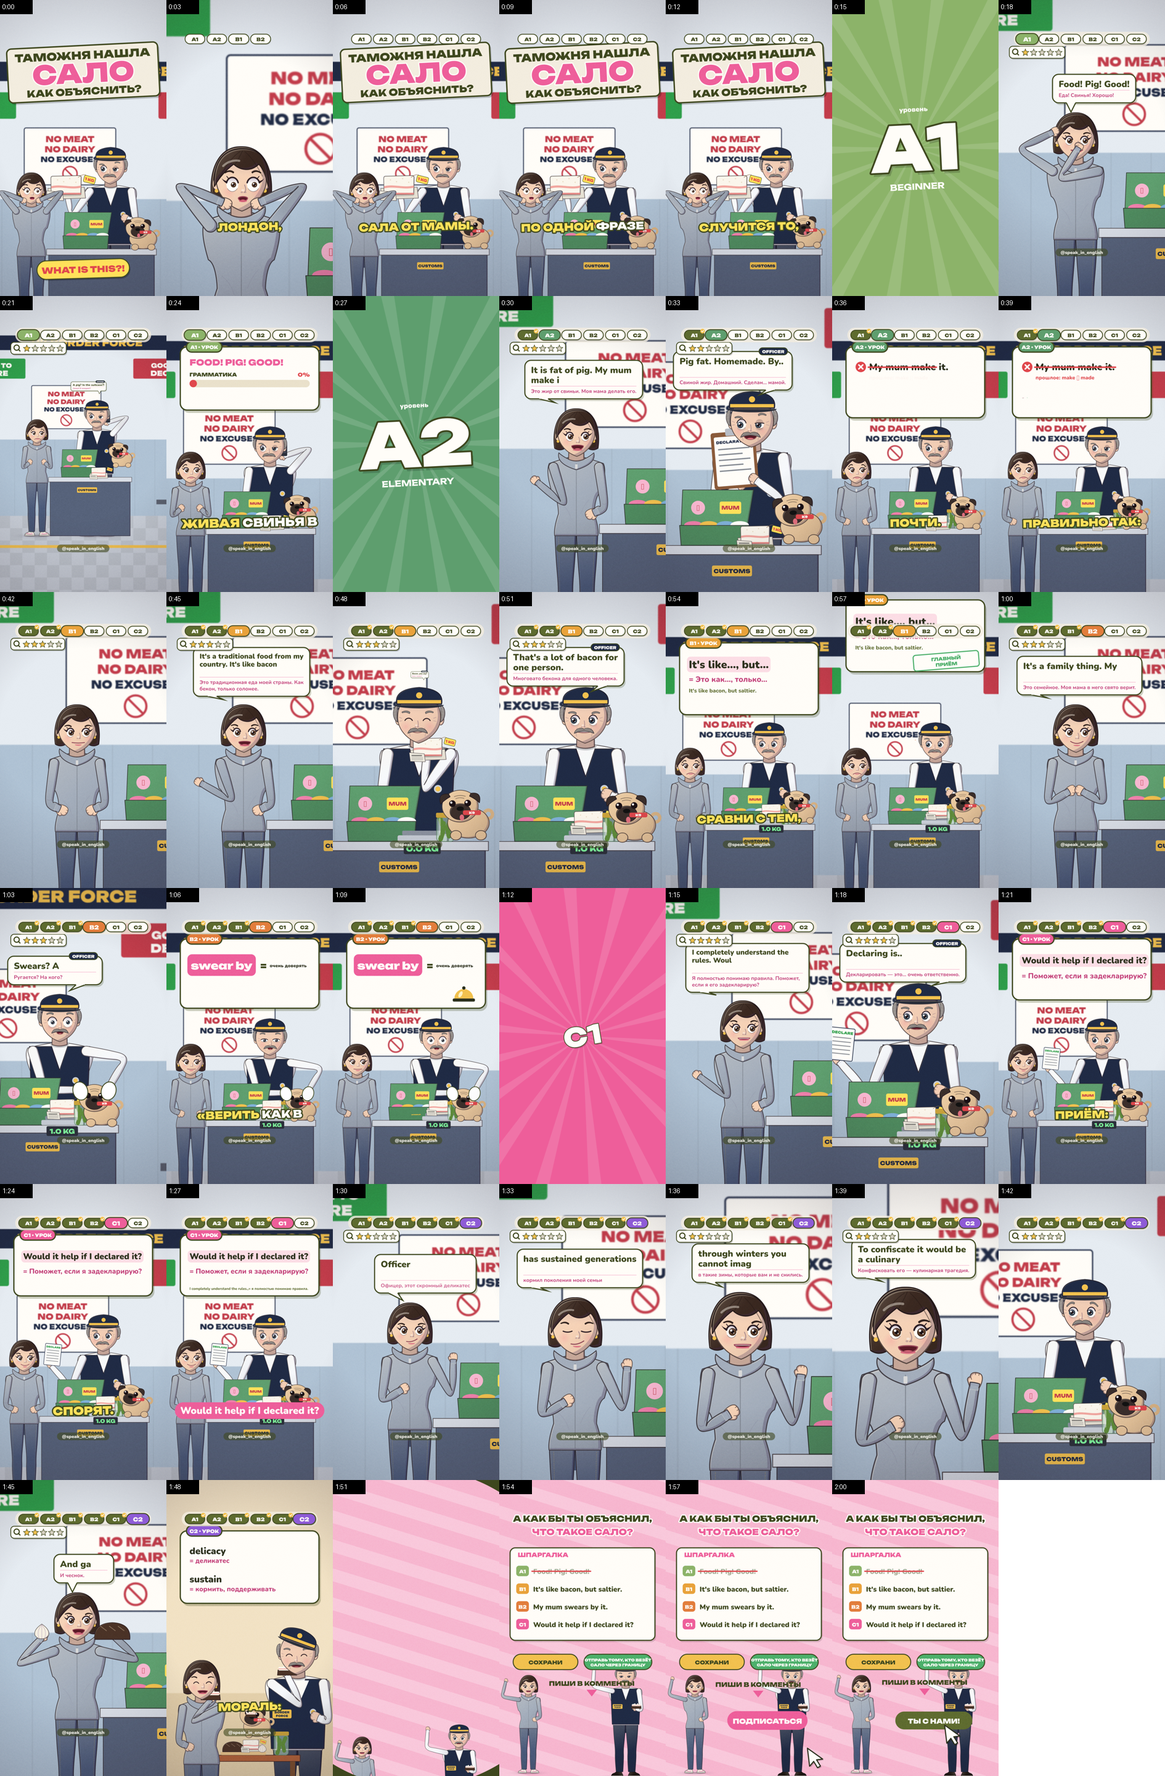
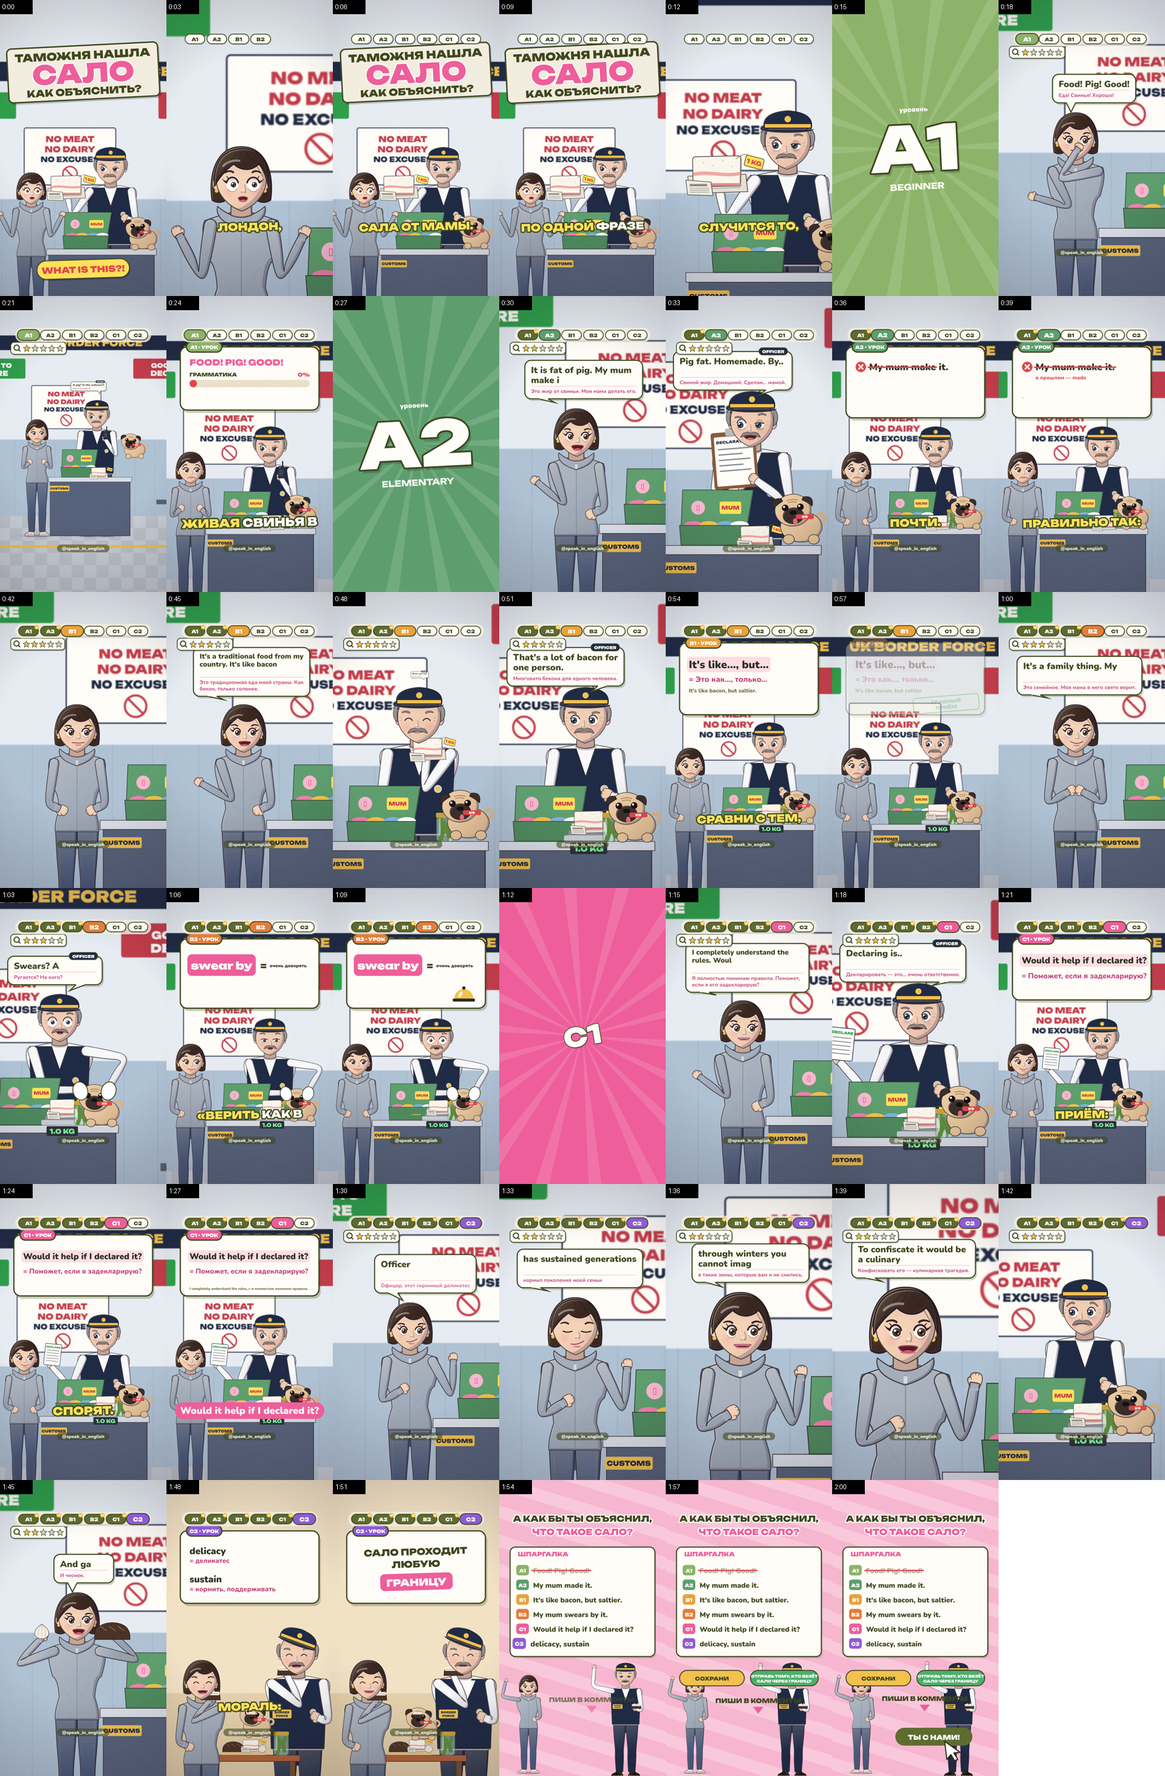
salo: owner fixes (hook cuts, 6-row cheat sheet, longer C2 card, card fade-out, scale, poses)
Claude-Session: https://claude.ai/code/session_01RM84ZifU5rD29j293utRvy

diff --git a/speak_in_english/engine/salo.js b/speak_in_english/engine/salo.js
@@ -122,12 +122,12 @@ function table(c, t, L) {
   // table top + front
   paint(c, q => { q.m(TX0, CT); q.l(TX1, CT); q.l(TX1, CT + 60); q.l(TX0, CT + 60); q.z(); }, '#D9DEE6', { sd: 6, hd: 3, lw: 4 });
   paint(c, q => { q.m(TX0 + 20, CT + 60); q.l(TX1 - 20, CT + 60); q.l(TX1 - 20, 0); q.l(TX0 + 20, 0); q.z(); }, '#56627A', { sd: 10, hd: 4, lw: 4 });
-  c.fillStyle = '#F2C14E'; rr(c, 170, CT + 130, 260, 70, 10); c.fill(); fitTxt(c, 'CUSTOMS', 300, CT + 166, 36, '#1F2A44', 240);
+  c.fillStyle = '#F2C14E'; rr(c, -190, CT + 110, 260, 70, 10); c.fill(); fitTxt(c, 'CUSTOMS', -60, CT + 146, 36, '#1F2A44', 240);
   // suitcase base with clothes (black bread + garlic hidden inside until C2)
   paint(c, q => { q.m(-40, CT - 130); q.l(410, CT - 130); q.l(400, CT); q.l(-30, CT); q.z(); }, '#4E8A5E', { sd: 8, hd: 4, lw: 4 });
   for (const [x, col] of [[20, '#EF7FAA'], [120, '#F2C14E'], [230, '#7FB0D8'], [320, '#FFFDF8']]) { c.fillStyle = col; c.beginPath(); c.ellipse(x + 30, CT - 132, 60, 26, 0, Math.PI, TAU); c.fill(); }
   // evidence pile
-  if (!before(L, 'B1')) scaleDraw(c, PILEX, onScale(t, L) ? (L === 'B1' && t < ev('B1', 'scale') + 0.35 ? (Math.min(1, (t - ev('B1', 'scale')) / 0.35) * 1.0).toFixed(1) + ' KG' : '1.0 KG') : '0.0 KG');
+  if (onScale(t, L)) { const k = L === 'B1' ? eBack(clamp((t - ev('B1', 'scale')) / 0.25), 2) : 1; c.save(); c.translate(PILEX, CT); c.scale(k, k); c.translate(-PILEX, -CT); scaleDraw(c, PILEX, '1.0 KG'); c.restore(); }
   else if (L === 'A2' || L === 'A1') {}
   if (saloOnTable(t, L) && !(L === 'C2' && t > ev('C2', 'room'))) { c.save(); c.translate(PILEX, CT - (onScale(t, L) ? 70 : 0) - 34); saloDraw(c, 0.75); c.restore(); }
   if (!before(L, 'A2') && (L !== 'A2' || t > ev('A2', 'jar'))) { const k = L === 'A2' ? eBack(clamp((t - ev('A2', 'jar')) / 0.3), 2) : 1; c.save(); c.translate(JARX, CT); c.scale(k, k); jarDraw(c, 0.95); c.restore(); }
@@ -149,10 +149,10 @@ function drawDog(c, t, L) { const st = dogState(t, L); if (!st) return;
 const gest = (st, g, who, t, side, base) => { const sp = TL.speech.find(s => s.who === who && t >= s.t && t < s.t + s.d); if (sp) { const u = (t - sp.t) * 4.5; st[side < 0 ? 'armL' : 'armR'] = reach(g, side, side * (g.sw * 1.5 + Math.sin(u) * 20), g.ySh + base + Math.cos(u) * 20); } };
 const hang = (g, s) => reach(g, s, s * g.sw * 0.8, g.ySh + 330);
 const chest = (g, s, k = 0.6) => reach(g, s, s * g.sw * k, g.ySh + 230);
-const cheeks = (st, g) => { st.headFirst = true; st.armL = reach(g, -1, -g.hw * 0.75, g.headY + g.hh * 0.7); st.armR = reach(g, 1, g.hw * 0.75, g.headY + g.hh * 0.7); };
+const cheeks = (st, g) => { st.armL = reach(g, -1, -g.sw * 1.7, g.ySh + 90, { planar: true }); st.armR = reach(g, 1, g.sw * 1.7, g.ySh + 90, { planar: true }); };
 function herState(t, L) { const g = G.her, e = k => ev(L, k), st = { t, talk: talk('her', t), mood: 'neutral', turn: 0.3, look: 0.7, armL: hang(g, -1), armR: hang(g, 1), items: {} };
   if (L === 'hook') { st.mood = 'shock'; st.blink = 0; cheeks(st, g); }
-  if (L === 'A1') { st.mood = 'happy'; if (speaking('a1_h', t, 0.05, 0.3)) { const w = Math.sin(t * 12) * 10; st.headFirst = true; st.armR = reach(g, 1, g.hw * 0.15, g.headY + g.hh * 0.42, { fist: true }); st.armL = reach(g, -1, -g.hw * 1.25, g.headY - g.hh * 0.45 + w * 3); }   // piggy snout with both fists
+  if (L === 'A1') { st.mood = 'happy'; if (speaking('a1_h', t, 0.05, 0.3)) { const w = Math.sin(t * 12) * 10; st.headFirst = true; st.armR = reach(g, 1, g.hw * 0.15, g.headY + g.hh * 0.42 + w * 0.3, { fist: true }); st.armL = reach(g, -1, -g.sw * 1.5, g.ySh + 200 + w * 2); }   // piggy snout with both fists
     if (t > SP.a1_o.t + 0.3) { st.mood = 'worried'; st.blink = 0; st.armL = chest(g, -1); st.armR = chest(g, 1); } }
   if (L === 'A2') { st.mood = 'happy'; if (speaking('a2_h', t, 0.05, 0.3)) gest(st, g, 'her', t, -1, 160); if (t > e('susp') - 0.05) { st.mood = 'worried'; st.blink = 0; } }
   if (L === 'B1') { st.mood = 'neutral'; if (speaking('b1_h', t, 0.05, 0.3)) { st.mood = 'happy'; gest(st, g, 'her', t, -1, 160); } if (t > e('sniff') - 0.05) { st.mood = 'skeptical'; } if (t > e('scale')) st.mood = 'worried'; }
@@ -167,7 +167,7 @@ function ofcState(t, L) { const g = G.customs, e = k => ev(L, k), st = { t, talk
   const holdOut = () => { st.armL = reach(g, -1, -g.sw * 1.8, g.ySh + 20); st.items.L = saloHand(1.2); };
   if (L === 'hook') { st.mood = 'skeptical'; holdOut(); st.lookY = 0; }
   if (L === 'A1') { st.mood = 'skeptical'; if (!saloOnTable(t, L)) holdOut(); if (t > SP.a1_o.t - 0.05) st.mood = 'shock';
-    if (t > e('radio') - 0.05) { st.items.R = radioItem; st.armR = reach(g, 1, g.hw * 1.0, g.headY + g.hh * 0.55); } if (t > e('dog')) st.mood = 'skeptical'; }
+    if (t > e('radio') - 0.05) { st.items.R = radioItem; st.armR = reach(g, 1, g.sw * 0.45, g.ySh + 120); st.lookY = 0.35; } if (t > e('dog')) st.mood = 'skeptical'; }
   if (L === 'A2') { st.mood = 'skeptical'; st.lookY = 0.35; st.items = { L: clipItem(t, t > e('susp')) }; st.armL = reach(g, -1, -g.sw * 0.4, g.ySh + 240);
     st.armR = reach(g, 1, g.sw * 0.1 + Math.sin(t * 16) * 18, g.ySh + 190 + (t > e('susp') - 0.15 && t < e('susp') + 0.1 ? -120 : 0));
     if (t > e('jar') - 0.25) { st.items = {}; st.armL = hang(g, -1); st.armR = reach(g, 1, JARX - BX, CT - 40); st.lookY = 0.3; } if (t > e('jar') + 0.3) st.armR = hang(g, 1); }
@@ -217,12 +217,13 @@ const fy = (hy, z, sy = 900) => hy + (960 - sy) / z;
 const SH = { COVER: S(160, fy((hHY + dHY) / 2, 0.66, 1160), 0.66, 'cover'), WIDE: S(250, -1000, 0.5, 'wide'), CARD: S(230, fy(dHY, 0.66, 980), 0.66, 'card'), TWO: S(230, fy(dHY, 0.72, 860), 0.72, 'two'),
   HER: S(HX + 40, fy(hHY, 1.0), 1.0, 'her'), HER_H: S(HX + 40, fy(hHY, 1.35, 1180), 1.35, 'her'),
   OFC: S(BX - 20, fy(dHY, 1.0), 1.0, 'customs'), OFC_CU: S(BX - 20, fy(dHY, 1.6, 960), 1.6, 'customs'), OFC_SALO: S(BX - 240, fy(dHY, 1.05, 930), 1.05, 'customs'),
-  OFC_DOG: S(BX + 180, fy(dHY, 0.85, 860), 0.85, 'customs'), DOG_CU: S(DOGX - 40, CT - 220, 1.5, 'customs'), PILE: S(PILEX + 60, CT - 260, 1.25, 'customs'),
+  OFC_DOG: S(BX + 180, fy(dHY, 0.85, 860), 0.85, 'customs'), DOG_CU: S(DOGX - 40, CT - 220, 1.5, 'customs'), PILE: S(PILEX + 60, CT - 260, 1.25, 'customs'), SUITCASE: S(190, CT - 330, 1.45, 'customs'),
   ROOM: S(RX - 20, fy(dHY, 0.9, 1000), 0.9, 'room'), ROOM_CARD: S(RX - 20, fy(dHY, 0.82, 1130), 0.82, 'room') };
 const C2Z = [1.0, 1.2, 1.4, 1.6].map(z => S(HX + 40, fy(hHY, z, 940), z, 'her'));   // "slow push-in" during the C2 speech: one closer shot per chunk
 function shotHard(t) { const sc = sceneAt(t), L = sc.id, f = s => ({ ...s, force: true }), e = k => ev(L, k); if (L === 'outro') return SH.WIDE;
   const sp = id => speaking(id, t, 0.1, 0.15);
-  if (L === 'hook') { if (t < hev('cu')) return SH.COVER; if (t < hev('shock')) return f(SH.OFC_SALO); if (t < hev('dog')) return f(SH.HER_H); if (t < hev('cover')) return f(SH.DOG_CU); return f(SH.COVER); }
+  if (L === 'hook') { if (t < hev('cu')) return SH.COVER; if (t < hev('shock')) return f(SH.OFC_SALO); if (t < hev('dog')) return f(SH.HER_H); if (t < hev('cover')) return f(SH.DOG_CU);
+    const h = t - hev('cover'); if (h < 2.2) return f(SH.COVER); if (h < 3.7) return f(SH.SUITCASE); if (h < 5.8) return f(SH.COVER); if (h < 7.0) return f(SH.DOG_CU); if (h < 8.4) return f(SH.OFC_SALO); return f(SH.COVER); }
   const u = t - sc.s, l = L.toLowerCase(), nar = SP[l + '_nar'];
   if (u < 1.15) return f(SH.WIDE);
   if (L === 'C2' && t > e('room') - 0.03) return f(t >= nar.t - 0.1 ? SH.ROOM_CARD : SH.ROOM);
@@ -276,12 +277,12 @@ function meter(c, t, sc) { const L = sc.id; if (L === 'hook' || L === 'outro') r
   c.restore(); }
 function renderFrame(c, t) {
   c.setTransform(1, 0, 0, 1, 0, 0); c.globalAlpha = 1; const sc = sceneAt(t), L = sc.id;
-  if (L === 'outro') { const rows = [['A1', 'Food! Pig! Good!'], ['B1', "It's like bacon, but saltier."], ['B2', 'My mum swears by it.'], ['C1', 'Would it help if I declared it?']];
-    K.outro(c, t, { q: ['А КАК БЫ ТЫ ОБЪЯСНИЛ,', 'ЧТО ТАКОЕ САЛО?'], rows, cta: ['ОТПРАВЬ ТОМУ, КТО ВЕЗЁТ', 'САЛО ЧЕРЕЗ ГРАНИЦУ'], heroX: 190, heroS: 0.42,
+  if (L === 'outro') { const rows = [['A1', 'Food! Pig! Good!'], ['A2', 'My mum made it.'], ['B1', "It's like bacon, but saltier."], ['B2', 'My mum swears by it.'], ['C1', 'Would it help if I declared it?'], ['C2', 'delicacy, sustain']];
+    K.outro(c, t, { q: ['А КАК БЫ ТЫ ОБЪЯСНИЛ,', 'ЧТО ТАКОЕ САЛО?'], rows, cta: ['ОТПРАВЬ ТОМУ, КТО ВЕЗЁТ', 'САЛО ЧЕРЕЗ ГРАНИЦУ'], heroX: 190, heroS: 0.42, rowH: 95, boxY: 790,
       hero: (cc, tt) => { const g = G.her, gd = G.customs; K.put(cc, OFC, { t: tt, mood: 'happy', laugh: true, turn: -0.2, look: -0.4, armL: reach(gd, -1, -gd.sw * 2.0, gd.ySh - 330 + Math.sin(tt * 8) * 30, { planar: true }), armR: hang(gd, 1), items: { R: sandItem }, afterTorso: cc2 => vest(cc2, gd), front: (cc2, a) => capOn(cc2, a, gd) }, 1500, 60);
         K.put(cc, HER, { t: tt, mood: 'happy', laugh: true, turn: 0, look: 0, armL: reach(g, -1, -g.sw * 2.0, g.ySh - 260 + Math.sin(tt * 8) * 30, { planar: true }), armR: hang(g, 1), items: {} }, 0, 0); } });
     // A1 phrase greyed out and struck through
-    const u = t - SC.outro.s, kk = P(u, 1.35, 1.7); if (kk > 0) { const bh = 140 + rows.length * 115, y = 740 - bh / 2 + 150; UI.textFit(c, 'Nun9', 46, rows[0][1], 740); const wd = c.measureText(rows[0][1]).width;
+    const u = t - SC.outro.s, kk = P(u, 1.35, 1.7); if (kk > 0) { const bh = 140 + rows.length * 95, y = 790 - bh / 2 + 150; UI.textFit(c, 'Nun9', 46, rows[0][1], 740); const wd = c.measureText(rows[0][1]).width;
       c.save(); c.globalAlpha = 0.55 * kk; c.fillStyle = C.white; c.fillRect(214, y - 34, wd + 16, 68); c.restore(); c.strokeStyle = C.red; c.lineWidth = 8; c.lineCap = 'round'; c.beginPath(); c.moveTo(212, y + 2); c.lineTo(212 + (wd + 16) * eOut(kk), y + 2); c.stroke(); }
     Hq.grain(c, W, HH, t, 0.05); UI.outroIntro(c, t); return; }
   const fr = Math.min(CAM.length - 1, Math.round(t * FPS)), cam = CAM[fr], sh = shake(t), tag = cam.tag || 'wide';

diff --git a/speak_in_english/engine/ep_kit.js b/speak_in_english/engine/ep_kit.js
@@ -61,12 +61,12 @@ module.exports = function makeKit(TL, UI) {
     c.textAlign = 'center'; c.textBaseline = 'middle';
     const q = eBack(P(u, 0.25, 0.6), 2.2);
     c.save(); c.translate(540, 300); c.scale(q, q); font(c, 'Unb9', o.qSize || 54); strokeText(c, o.q[0], 0, -50, C.oliveD, C.white, 14); strokeText(c, o.q[1], 0, 36, C.pink, C.white, 14); c.restore();
-    const k = eBack(P(u, 0.7, 1.1), 1.8), n = o.rows.length, bh = 140 + n * 115;
-    if (k > 0) { c.save(); c.translate(540, 740); c.scale(k, k); c.fillStyle = 'rgba(0,0,0,.14)'; R(c, -470 + 8, -bh / 2 + 12, 940, bh, 34); c.fill(); c.fillStyle = C.white; c.strokeStyle = C.oliveD; c.lineWidth = 7; R(c, -470, -bh / 2, 940, bh, 34); c.fill(); c.stroke();
+    const k = eBack(P(u, 0.7, 1.1), 1.8), n = o.rows.length, RH = o.rowH || 115, BY = o.boxY || 740, bh = 140 + n * RH;   // o.rowH / o.boxY: compact cheat sheet for 5-6 rows (new episodes)
+    if (k > 0) { c.save(); c.translate(540, BY); c.scale(k, k); c.fillStyle = 'rgba(0,0,0,.14)'; R(c, -470 + 8, -bh / 2 + 12, 940, bh, 34); c.fill(); c.fillStyle = C.white; c.strokeStyle = C.oliveD; c.lineWidth = 7; R(c, -470, -bh / 2, 940, bh, 34); c.fill(); c.stroke();
       font(c, 'Unb9', 38); c.fillStyle = C.pink; c.textAlign = 'left'; c.fillText('ШПАРГАЛКА', -420, -bh / 2 + 45);
-      o.rows.forEach(([lv, ph], i) => { const y = -bh / 2 + 150 + i * 115, kk = eBack(P(u, 1.0 + i * 0.18, 1.35 + i * 0.18), 2.2); if (kk <= 0) return; c.save(); c.translate(0, y); c.scale(kk, kk); c.fillStyle = LVCOL[lv]; R(c, -430, -34, 82, 68, 18); c.fill(); font(c, 'Unb9', 30); c.fillStyle = C.white; c.textAlign = 'center'; c.fillText(lv, -389, 3); textFit(c, 'Nun9', 46, ph, 740); c.fillStyle = C.oliveD; c.textAlign = 'left'; c.fillText(ph, -320, 3); c.restore(); });
+      o.rows.forEach(([lv, ph], i) => { const y = -bh / 2 + 150 + i * RH, kk = eBack(P(u, 1.0 + i * 0.18, 1.35 + i * 0.18), 2.2); if (kk <= 0) return; c.save(); c.translate(0, y); c.scale(kk, kk); c.fillStyle = LVCOL[lv]; R(c, -430, -34, 82, 68, 18); c.fill(); font(c, 'Unb9', 30); c.fillStyle = C.white; c.textAlign = 'center'; c.fillText(lv, -389, 3); textFit(c, 'Nun9', 46, ph, 740); c.fillStyle = C.oliveD; c.textAlign = 'left'; c.fillText(ph, -320, 3); c.restore(); });
       c.restore(); }
-    const by = 740 + bh / 2 + 140, bk = eBack(P(u, 2.4, 2.8), 2.2);
+    const by = BY + bh / 2 + 140, bk = eBack(P(u, 2.4, 2.8), 2.2);
     if (bk > 0) { c.save(); c.translate(540, by); c.scale(bk, bk); c.fillStyle = C.gold; R(c, -450, -50, 420, 100, 50); c.fill(); c.strokeStyle = C.oliveD; c.lineWidth = 6; c.stroke(); font(c, 'Unb9', 34); c.fillStyle = C.oliveD; c.textAlign = 'center'; c.fillText('СОХРАНИ', -240, 3);
       c.fillStyle = '#4CAF6A'; R(c, 10, -50, 440, 100, 50); c.fill(); c.strokeStyle = C.oliveD; c.stroke(); c.fillStyle = C.white; font(c, 'Unb9', 24); c.fillText(o.cta[0], 230, -12); c.fillText(o.cta[1], 230, 20); c.restore(); }
     const ak = eOut(P(t, sp.t + 1.3, sp.t + 1.6));

diff --git a/speak_in_english/engine/ui_v2.js b/speak_in_english/engine/ui_v2.js
@@ -287,8 +287,8 @@ function card(ctx, t, sc) {
   const u = t - nar.t + 0.15; if (u < 0) return;
   const out = P(t, sc.e - 0.35, sc.e - 0.05);
   const k = eBack(P(u, 0, 0.35), 1.6);
-  const x = 90, w = 900, y = 330 + (1 - k) * -80 - eIn(out) * 900, h = LAYOUT === 'v2' ? cardHeight(CFG.cards[sc.id]) : 470;
-  ctx.save(); ctx.globalAlpha = clamp(u / 0.15);
+  const fade = !!CFG.card_fade, x = 90, w = 900, y = 330 + (1 - k) * -80 - (fade ? 0 : eIn(out) * 900), h = LAYOUT === 'v2' ? cardHeight(CFG.cards[sc.id]) : 470;
+  ctx.save(); ctx.globalAlpha = clamp(u / 0.15) * (fade ? 1 - out : 1);   // cfg.card_fade: the card fades out in place instead of flying up under the level bar
   ctx.translate(540, y + h / 2); ctx.rotate((1 - k) * -0.08); ctx.translate(-540, -(y + h / 2));
   ctx.fillStyle = 'rgba(62,71,30,.28)'; rr(ctx, x + 12, y + 18, w, h, 44); ctx.fill();
   ctx.fillStyle = C.white; ctx.strokeStyle = C.oliveD; ctx.lineWidth = 8; rr(ctx, x, y, w, h, 44); ctx.fill(); ctx.stroke();

diff --git a/speak_in_english/engine/timeline_v2.py b/speak_in_english/engine/timeline_v2.py
@@ -588,11 +588,11 @@ elif EPN == "idea":   # meeting room (newhair layout): Her / Boss (seated) / Rya
     INTRO = 1.15
 elif EPN == "salo":   # customs table (passport layout): her left, officer behind the table right, open suitcase between, pug on the floor. Plans: WIDE / CARD / HER / OFC + ROOM (C2 twist). NO black card
     LV = dict(
-        A1=[("a1_h", 0.22, [("PIG", 0.0, 0)]), ("a1_o", 0.22, [("RADIO", 0.25, 0), ("radio", 0.3, 0.6), ("DOG", ("e", 0.1), 0), ("whoosh", ("e", 0.1), 0.5), ("bark", ("e", 0.45), 0.7), ("STAR", ("e", 0.9), 0), ("ding", ("e", 0.9), 0.5)]), ("a1_nar", 1.4, [])],
+        A1=[("a1_h", 0.22, [("PIG", 0.0, 0)]), ("a1_o", 0.22, [("RADIO", 0.25, 0), ("radio", 0.3, 0.6), ("DOG", ("e", 0.3), 0), ("whoosh", ("e", 0.3), 0.5), ("bark", ("e", 0.65), 0.7), ("STAR", ("e", 0.9), 0), ("ding", ("e", 0.9), 0.5)]), ("a1_nar", 1.4, [])],
         A2=[("a2_h", 0.22, []), ("a2_o", 0.22, [("WRITE", 0.0, 0), ("SUSP", ("e", 0.1), 0), ("stamp", ("e", 0.12), 0.9), ("STAR", ("e", 0.15), 0), ("JAR", ("e", 0.75), 0), ("clank", ("e", 0.8), 0.6)]), ("a2_nar", 1.3, [("buzz", 0.95, 0.5)]), ("a2_tip", 0.2, [("ding", 0.05, 0.6)])],
         B1=[("b1_h", 0.22, []), ("b1_o", 0.22, [("SNIFF", ("e", 0.05), 0), ("sniff", ("e", 0.05), 0.7), ("HOWL", ("e", 0.6), 0), ("howl", ("e", 0.6), 0.6)]), ("b1_o2", 1.5, [("SCALE", -0.75, 0), ("thud", -0.7, 0.6), ("ding", -0.4, 0.6)]), ("b1_nar", 0.9, [])],
         B2=[("b2_h", 0.22, []), ("b2_o", 0.3, [("EARS", -0.3, 0), ("STAR", ("e", 0.2), 0), ("ding", ("e", 0.2), 0.5)]), ("b2_nar", 1.0, []), ("b2_tip", 0.2, [("ding", 0.05, 0.6)])],
-        C1=[("c1_h", 0.22, []), ("c1_o", 0.22, [("FORM", 0.0, 0), ("pop", 0.05, 0.5), ("SIT", ("e", 0.05), 0), ("STAR", ("e", 0.3), 0), ("deflate", ("e", 0.3), 0.4)]), ("c1_nar", 1.0, []), ("c1_tip", 0.2, [("ding", 0.05, 0.6)])],
+        C1=[("c1_h", 0.22, []), ("c1_o", 0.22, [("FORM", 0.0, 0), ("pop", 0.05, 0.5), ("SIT", ("e", 0.3), 0), ("STAR", ("e", 0.5), 0), ("deflate", ("e", 0.5), 0.4)]), ("c1_nar", 1.0, []), ("c1_tip", 0.2, [("ding", 0.05, 0.6)])],
         C2=[("c2_h", 0.4, []), ("c2_o", 2.3, [("THINK", -2.25, 0)] + TICKS(2.2) + [("LOOK", -0.9, 0)]),
             ("c2_h2", 0.45, [("BREAD", -0.4, 0), ("pop", -0.35, 0.6), ("ROOM", ("e", 0.35), 0), ("whoosh", ("e", 0.3), 0.5), ("tada", ("e", 0.4), 0.6), ("munch", ("e", 0.85), 0.7), ("STAR", ("e", 0.35), 0)]), ("c2_nar", 1.65, [])],
     )
@@ -825,14 +825,14 @@ for L in ["A1", "A2", "B1", "B2", "C1", "C2"]:
             if n == "thud" and lid == "c2_x3": ev["plop"] = round(tt, 3)
             if n == "gulp" or n == "nope": ev["ins"] = round(c - 1.6, 3)
         ev[lid] = c; c = say(lid, c); prev_end = c
-    t = c + (0.42 if EPN == "mic" else 0.55)
+    t = c + (0.42 if EPN == "mic" else 1.55 if (EPN == "salo" and L == "C2") else 0.55)
     if EPN == "lift": cue("doors", t - 0.45, 0.5)
     scenes.append(dict(id=L, s=round(s, 3), e=round(t, 3), ev={k: (round(v, 3) if not isinstance(v, list) else v) for k, v in ev.items()}))
 s = t
 cue("whoosh", s, 0.8); cue("impact", s + 0.3, 0.8)
 e = say("outro", s + 0.8)
 for k in range(6): cue("pop", s + 1.1 + 0.15 * k, 0.5)
-t = e + 1.3
+t = e + (0.3 if EPN == "salo" else 1.3)
 scenes.append(dict(id="outro", s=round(s, 3), e=round(t, 3)))
 
 for sp in speech:
@@ -853,7 +853,7 @@ for sp in speech:
             t0 = cc / tot * sp["d"]; cc += a; wt.append([w, round(t0, 3), round(cc / tot * sp["d"], 3)]); cc += p_
     sp["words"] = wt
 cfg = {k: E.get(k) for k in ["title", "hook_title", "stamp", "next", "cards"]}
-for k in ["camera", "chunks"]:   # new episodes only: camera mode ("hard_cut") and long lines split into meaning chunks
+for k in ["camera", "chunks", "card_fade"]:   # new episodes only: camera mode ("hard_cut") and long lines split into meaning chunks
     if E.get(k): cfg[k] = E[k]
 cfg["setting"] = EPN
 json.dump(dict(fps=FPS, dur=round(t, 3), ep=EPN, cfg=cfg, scenes=scenes, speech=speech, sfx=sfx), open(f"eps/{EPN}/timeline.json", "w"), ensure_ascii=False)

diff --git a/speak_in_english/engine/episodes_v2.py b/speak_in_english/engine/episodes_v2.py
@@ -2690,7 +2690,7 @@ EP["salo"] = dict(
     title='Таможня нашла сало',
     hook_title=[['ТАМОЖНЯ НАШЛА', 'd'], ['САЛО', 'p'], ['КАК ОБЪЯСНИТЬ?', 'd']],
     stamp="ПРОВЕРИМ!", stamp_word="Проверим", next=None,
-    camera="hard_cut",
+    camera="hard_cut", card_fade=True,
     chunks={'c2_h': [['Officer, this humble delicacy', 'Офицер, этот скромный деликатес'], ['has sustained generations of my family', 'кормил поколения моей семьи'], ['through winters you cannot imagine.', 'в такие зимы, которые вам и не снились.'], ['To confiscate it would be a culinary tragedy.', 'Конфисковать его — кулинарная трагедия.']]},
     lines=[
         ('hook_o', 'customs', '[suspiciously] Madam... what IS this?', 'Мадам… что ЭТО такое?'),
@@ -2721,7 +2721,7 @@ EP["salo"] = dict(
         ('outro', 'nar', 'А как бы ты объяснил иностранцу, что такое сало? Пиши в комментарии! И подпишись, впереди ещё много новых серий.', ''),
     ],
     cards={'A1': {'type': 'meter', 'label': 'FOOD! PIG! GOOD!', 'ok': False, 'note': 'СВИНЬЯ ✗ подозревается', 'bars': [['ГРАММАТИКА', 0]]},
-           'A2': {'type': 'swap', 'bad': 'My mum make it.', 'bad_note': 'прошлое: make → made', 'good': ['My mum', 'made it.']},
+           'A2': {'type': 'swap', 'bad': 'My mum make it.', 'bad_note': 'в прошлом — made', 'good': ['My mum', 'made it.']},
            'B1': {'type': 'eq', 'en': "It's like…, but…", 'ru': '= Это как…, только…', 'note': "It's like bacon, but saltier.", 'stamp': ['ГЛАВНЫЙ', 'ПРИЁМ']},
            'B2': {'type': 'big', 'en': 'swear by', 'ru': 'очень доверять', 'ex': ['My mum swears by it.', 'мама в это свято верит.'], 'icon': 'bell'},
            'C1': {'type': 'eq', 'en': 'Would it help if I declared it?', 'ru': '= Поможет, если я задекларирую?', 'ex': [['I completely understand the rules.', '= я полностью понимаю правила.']]},
